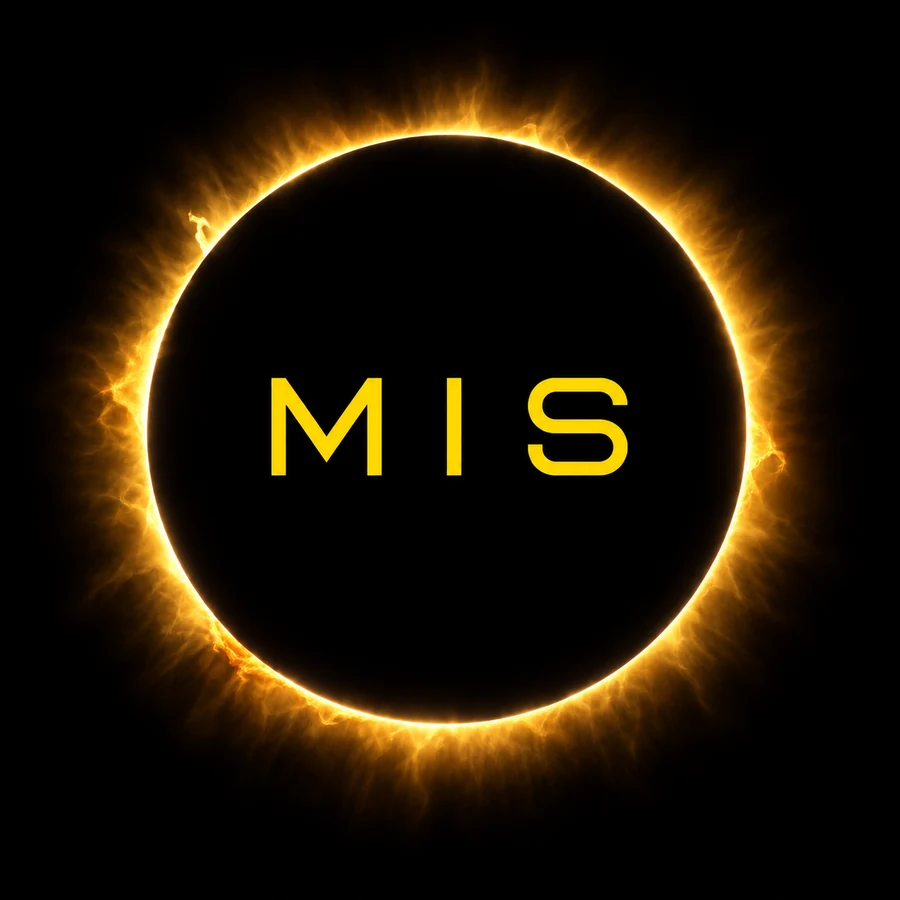
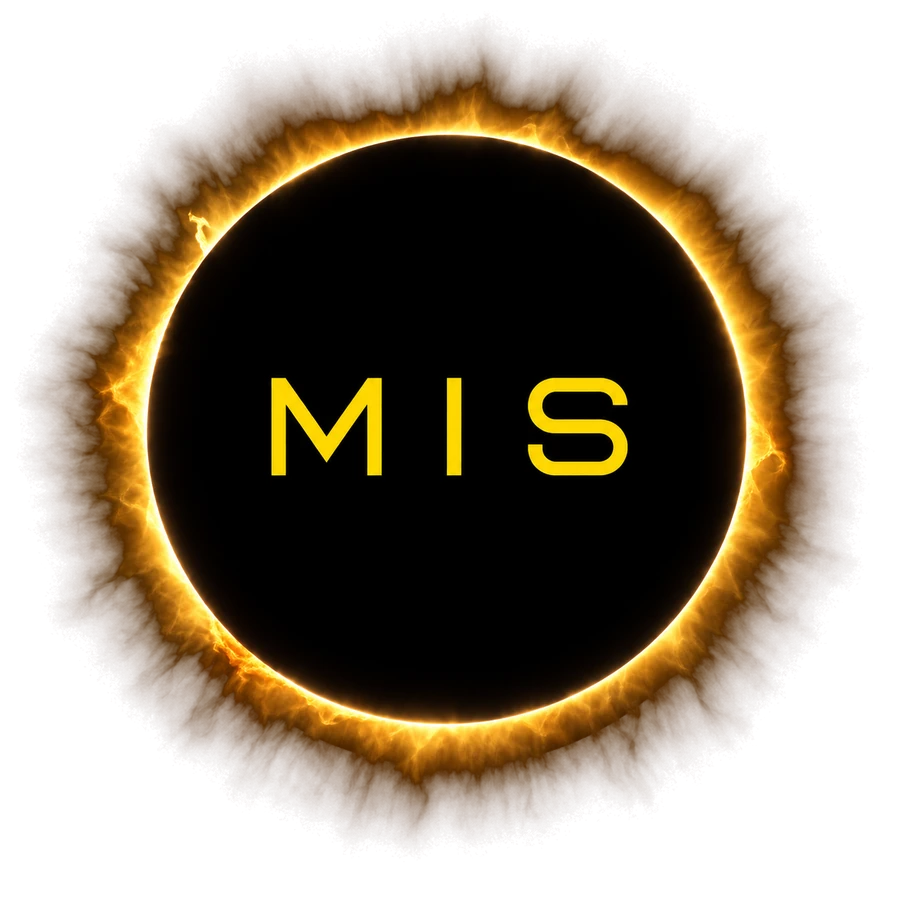
Remove the black plate from the MIS marks
- images/mis-eclipse.{png,webp} rebuilt with alpha. The eclipse disk stays fully
  opaque so its dark centre survives on any background; the corona outside the
  ring fades with its own brightness and the black field goes to zero.
- The corona is unpremultiplied (colour divided by alpha). Painted over black, a
  dim corona pixel is a bright colour at low opacity; without this it reads as a
  grey smudge on light backgrounds. Checked on black, the cream band and a
  saturated mid-tone.
- Ring radius found from a radial brightness profile (440px). A scan out from
  the centre hits the I of MIS and returns 99px, which made the disk
  transparent on the first attempt.
- logos/mis-eclipse.svg and app/icon.svg: black background rect removed so the
  favicon is not a square on light browser chrome.

Docs
- HANDOFF: the alpha treatment, the unpremultiply step and the ring-radius trap,
  with a note to redo this if the art is re-exported.

Verified: npm run build, 16 static pages. npm run check, 87 references, all
present. Badge inspected over the hero photograph and on the origins block.

diff --git a/components/Blocks.jsx b/components/Blocks.jsx
@@ -185,29 +185,3 @@ export function Donor({ eyebrow = 'Make an impact', title, copy, tiers, cta = 'B
 }
 
 
-/** The digital-museum scene: perspective grid, holographic exhibit panels, real eclipse at the vanishing point. */
-export function DigitalMuseum() {
-  const VPx = 320, VPy = 214;
-  const verts = []; for (let x = -80; x <= 760; x += 80) verts.push(<line key={'v' + x} x1={x} y1="480" x2={VPx} y2={VPy} />);
-  const horiz = [250, 296, 352, 420, 478].map(yy => { const t = (yy - VPy) / (480 - VPy); return <line key={'h' + yy} x1={VPx - 320 * t} y1={yy} x2={VPx + 320 * t} y2={yy} />; });
-  const panel = (x, y, w, h, k) => (<g key={k}><rect x={x} y={y} width={w} height={h} fill="#141210" stroke="#E0A33B" strokeOpacity=".65" /><line x1={x + 8} y1={y + h - 10} x2={x + w - 8} y2={y + h - 10} stroke="#E0A33B" strokeOpacity=".35" /><line x1={x + 8} y1={y + 12} x2={x + w * .55} y2={y + 12} stroke="#6FC3CE" strokeOpacity=".4" /></g>);
-  return (
-    <div className="dmuseum">
-      <svg viewBox="0 0 640 480" xmlns="http://www.w3.org/2000/svg" role="img" aria-label="The Museum of Illicit Shadows, a virtual digital museum, with exhibits receding toward a glowing eclipse">
-        <defs>
-          <radialGradient id="bgg" cx="50%" cy="40%" r="72%"><stop offset="0%" stopColor="#1b1613" /><stop offset="55%" stopColor="#0d0b09" /><stop offset="100%" stopColor="#000" /></radialGradient>
-          <radialGradient id="glow" cx="50%" cy="50%" r="50%"><stop offset="0%" stopColor="#E0A33B" stopOpacity=".55" /><stop offset="60%" stopColor="#E0A33B" stopOpacity=".08" /><stop offset="100%" stopColor="#E0A33B" stopOpacity="0" /></radialGradient>
-        </defs>
-        <rect width="640" height="480" fill="url(#bgg)" />
-        <g stroke="#3a3226" strokeWidth="1" opacity=".55">{verts}{horiz}</g>
-        <ellipse cx="320" cy="200" rx="250" ry="130" fill="url(#glow)" />
-        {panel(64, 96, 120, 84, 'a')}{panel(52, 214, 108, 74, 'b')}{panel(456, 96, 120, 84, 'c')}{panel(480, 214, 108, 74, 'd')}
-        <ellipse cx="250" cy="404" rx="10" ry="4" fill="#000" opacity=".5" /><rect x="245" y="360" width="10" height="46" rx="5" fill="#0a0a0a" />
-        <ellipse cx="398" cy="430" rx="12" ry="5" fill="#000" opacity=".5" /><rect x="392" y="380" width="12" height="52" rx="6" fill="#0a0a0a" />
-        <circle cx="320" cy="188" r="96" fill="url(#glow)" />
-        <image href="/images/mis-eclipse.png" x="238" y="106" width="164" height="164" />
-        <rect x="0" y="0" width="640" height="480" fill="none" stroke="#2a2620" strokeWidth="1" />
-      </svg>
-    </div>
-  );
-}

diff --git a/styles/site.css b/styles/site.css
@@ -380,7 +380,6 @@ a.mbox:hover{transform:translateY(-3px)}.mbox.alert{border-top-color:var(--alert
 .chips{display:flex;flex-wrap:wrap;gap:8px;margin-top:6px}
 .chip-h{font-family:var(--mono);font-size:10px;color:var(--text-2);border:1px solid var(--line-2);padding:5px 10px}
 .book3d{width:100%;max-width:560px;margin:0 auto;display:block;filter:drop-shadow(0 28px 56px rgba(0,0,0,.65))}
-.dmuseum{border:1px solid var(--line-2);overflow:hidden;line-height:0}.dmuseum svg{display:block;width:100%;height:auto}
 .netglobe{position:relative;border:1px solid var(--line-2);overflow:hidden;line-height:0;margin-bottom:clamp(28px,4vw,44px)}
 .netglobe img{width:100%;display:block;max-height:520px;object-fit:cover}
 .netglobe::after{content:"";position:absolute;inset:0;background:linear-gradient(180deg,rgba(0,0,0,.1),rgba(0,0,0,.35));pointer-events:none}

diff --git a/app/page.js b/app/page.js
@@ -3,7 +3,7 @@ import site from '../data/site.json';
 import films from '../data/films.json';
 import news from '../data/newsroom.json';
 import slate from '../data/slate.json';
-import { Pic, SectionHead, Break, Prov, Hero, Signup, Donor, DigitalMuseum } from '../components/Blocks';
+import { Pic, SectionHead, Break, Prov, Hero, Signup, Donor } from '../components/Blocks';
 import { Icon } from '../components/Icons';
 import { Cascade } from '../components/Cascade';
 import { WorkCard } from '../components/WorkCard';

diff --git a/HANDOFF.md b/HANDOFF.md
@@ -131,6 +131,23 @@ dimensions in `Convergence.jsx` and whether the new one is legible at 390px.
 and font-size, or it collapses to the glyph and the border-radius renders as a wedge, or vanishes.
 This has now bitten three times: `.ep-player`, `.sgcard`/`.minicard`, and `.trailer-home`.
 
+**MIS eclipse mark, three files supplied, two shipped** (14 Sep):
+- `images/mis-eclipse.png` + `.webp` (photographic, 900px) for **display sizes**. The corona is the
+  whole idea and it only survives above roughly 120px.
+  **Both carry alpha.** The supplied art is a glow on an opaque black plate, which showed as a black
+  square over photography. The eclipse disk is kept fully opaque (so its dark centre survives on any
+  background) and only the corona outside the ring fades with its own brightness. The corona is also
+  **unpremultiplied**: it was painted over black, so dividing by alpha recovers the colour, without
+  which it reads as a grey smudge on light backgrounds. The ring radius is found from a radial
+  brightness profile, not a scan through the centre, which hits the "I" of MIS and gives 99px
+  instead of 440px. If the art is ever re-exported, redo this; do not ship the plated version.
+- `logos/mis-eclipse.svg` (vector, 6KB) for **small sizes** and as `app/icon.svg`, the site favicon,
+  which did not exist before. Its black background rect is removed, so the favicon is not a square
+  on light browser chrome. The corona simplifies to a clean ring, which reads at 32px where the
+  photographic version turns to mud.
+- The supplied **photographic SVG is not shipped**: it is the same PNG wrapped in an SVG at 1.4MB,
+  strictly worse than the PNG at every size.
+
 The ICAIE mark is `logos/icaie-square`, trimmed and recentered from `icaie-stacked`, whose source had
 more whitespace below the wordmark than above. `.pmark.icaie` needs `flex:0 0 auto`, or as a flex
 item it shrinks in width while keeping its height and stops being square.

diff --git a/ROADMAP.md b/ROADMAP.md
@@ -113,6 +113,8 @@ contact form.
 - [x] **14 Sep** `preview.py` fixed: CSS glob broken since the Next 16 upgrade (previews were
       rendering unstyled), and `--lite` now keeps the fonts as woff2 instead of dropping them.
 - [x] **14 Sep** `scripts/mock.py`: design options render as one HTML page, per owner instruction.
+- [x] **14 Sep** MIS eclipse mark: photographic for display, vector for small sizes and favicon
+      (the site had none). Dead `DigitalMuseum` illustration and its styles removed.
 - [x] **14 Sep** Film card extracted to `WorkCard`, shared by `/film` and home. Museum restructured:
       3D prototype block high, halls below, impacts map moved to the bottom. New MIS logo. Books
       becomes a three-book trilogy from `data/books.json`.
